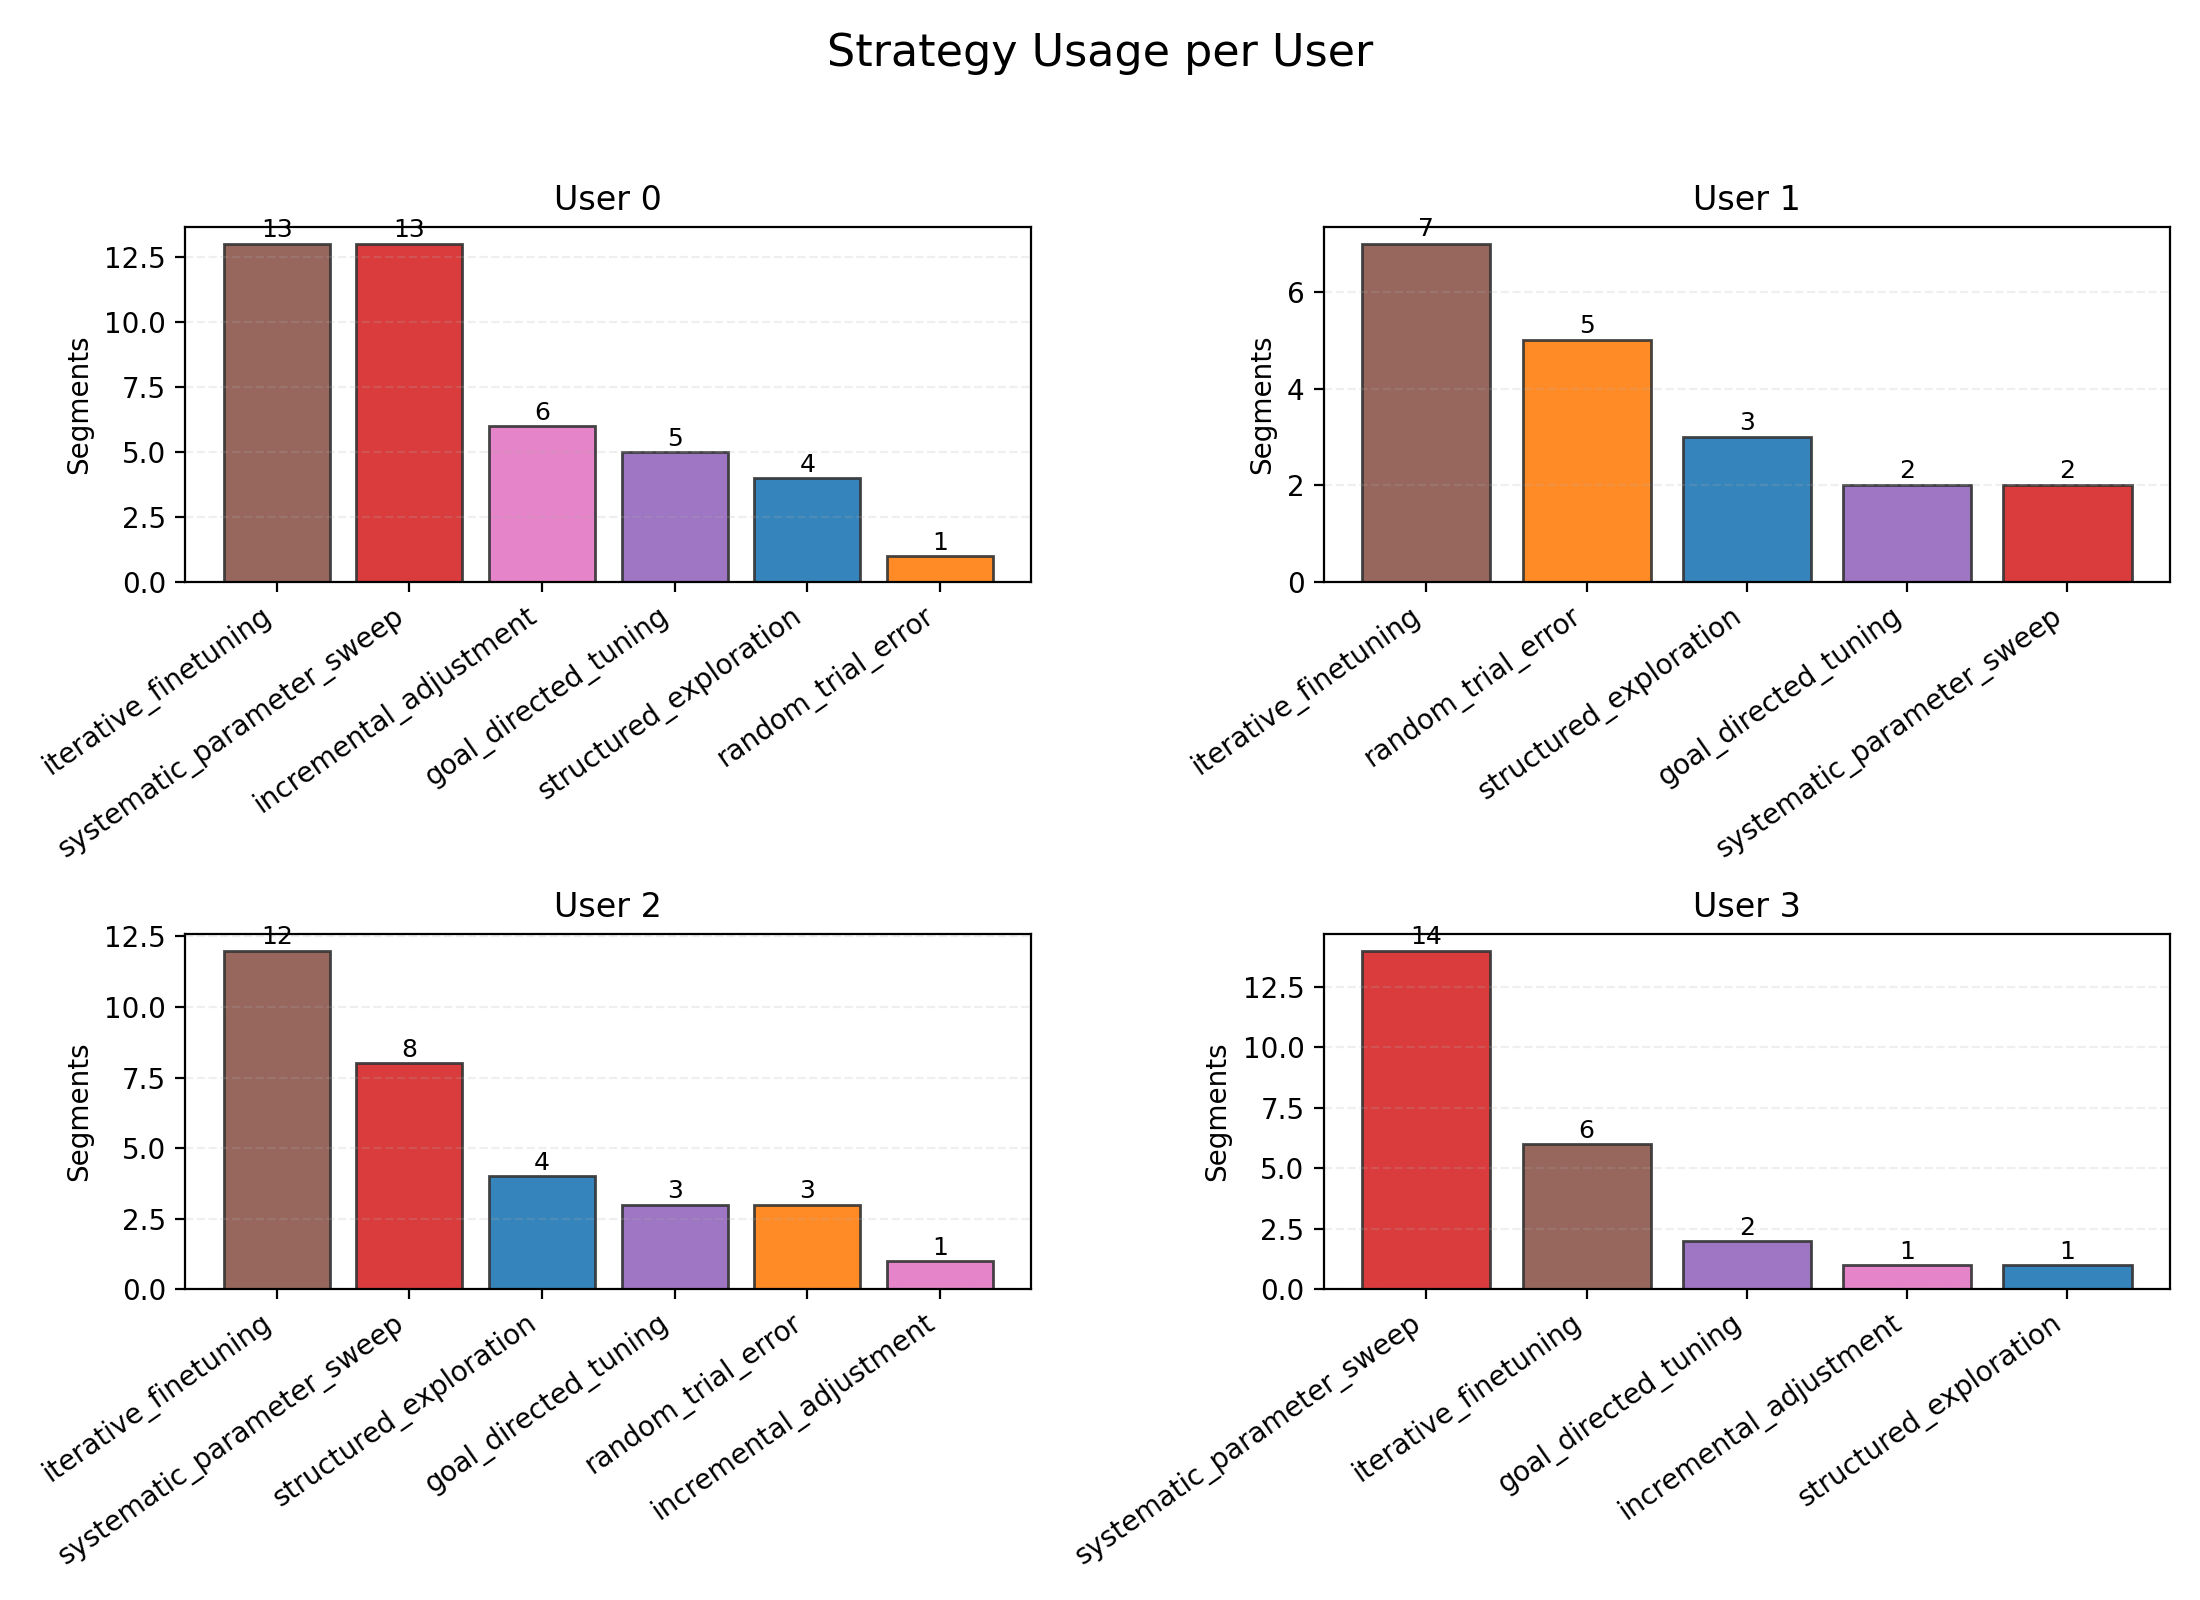
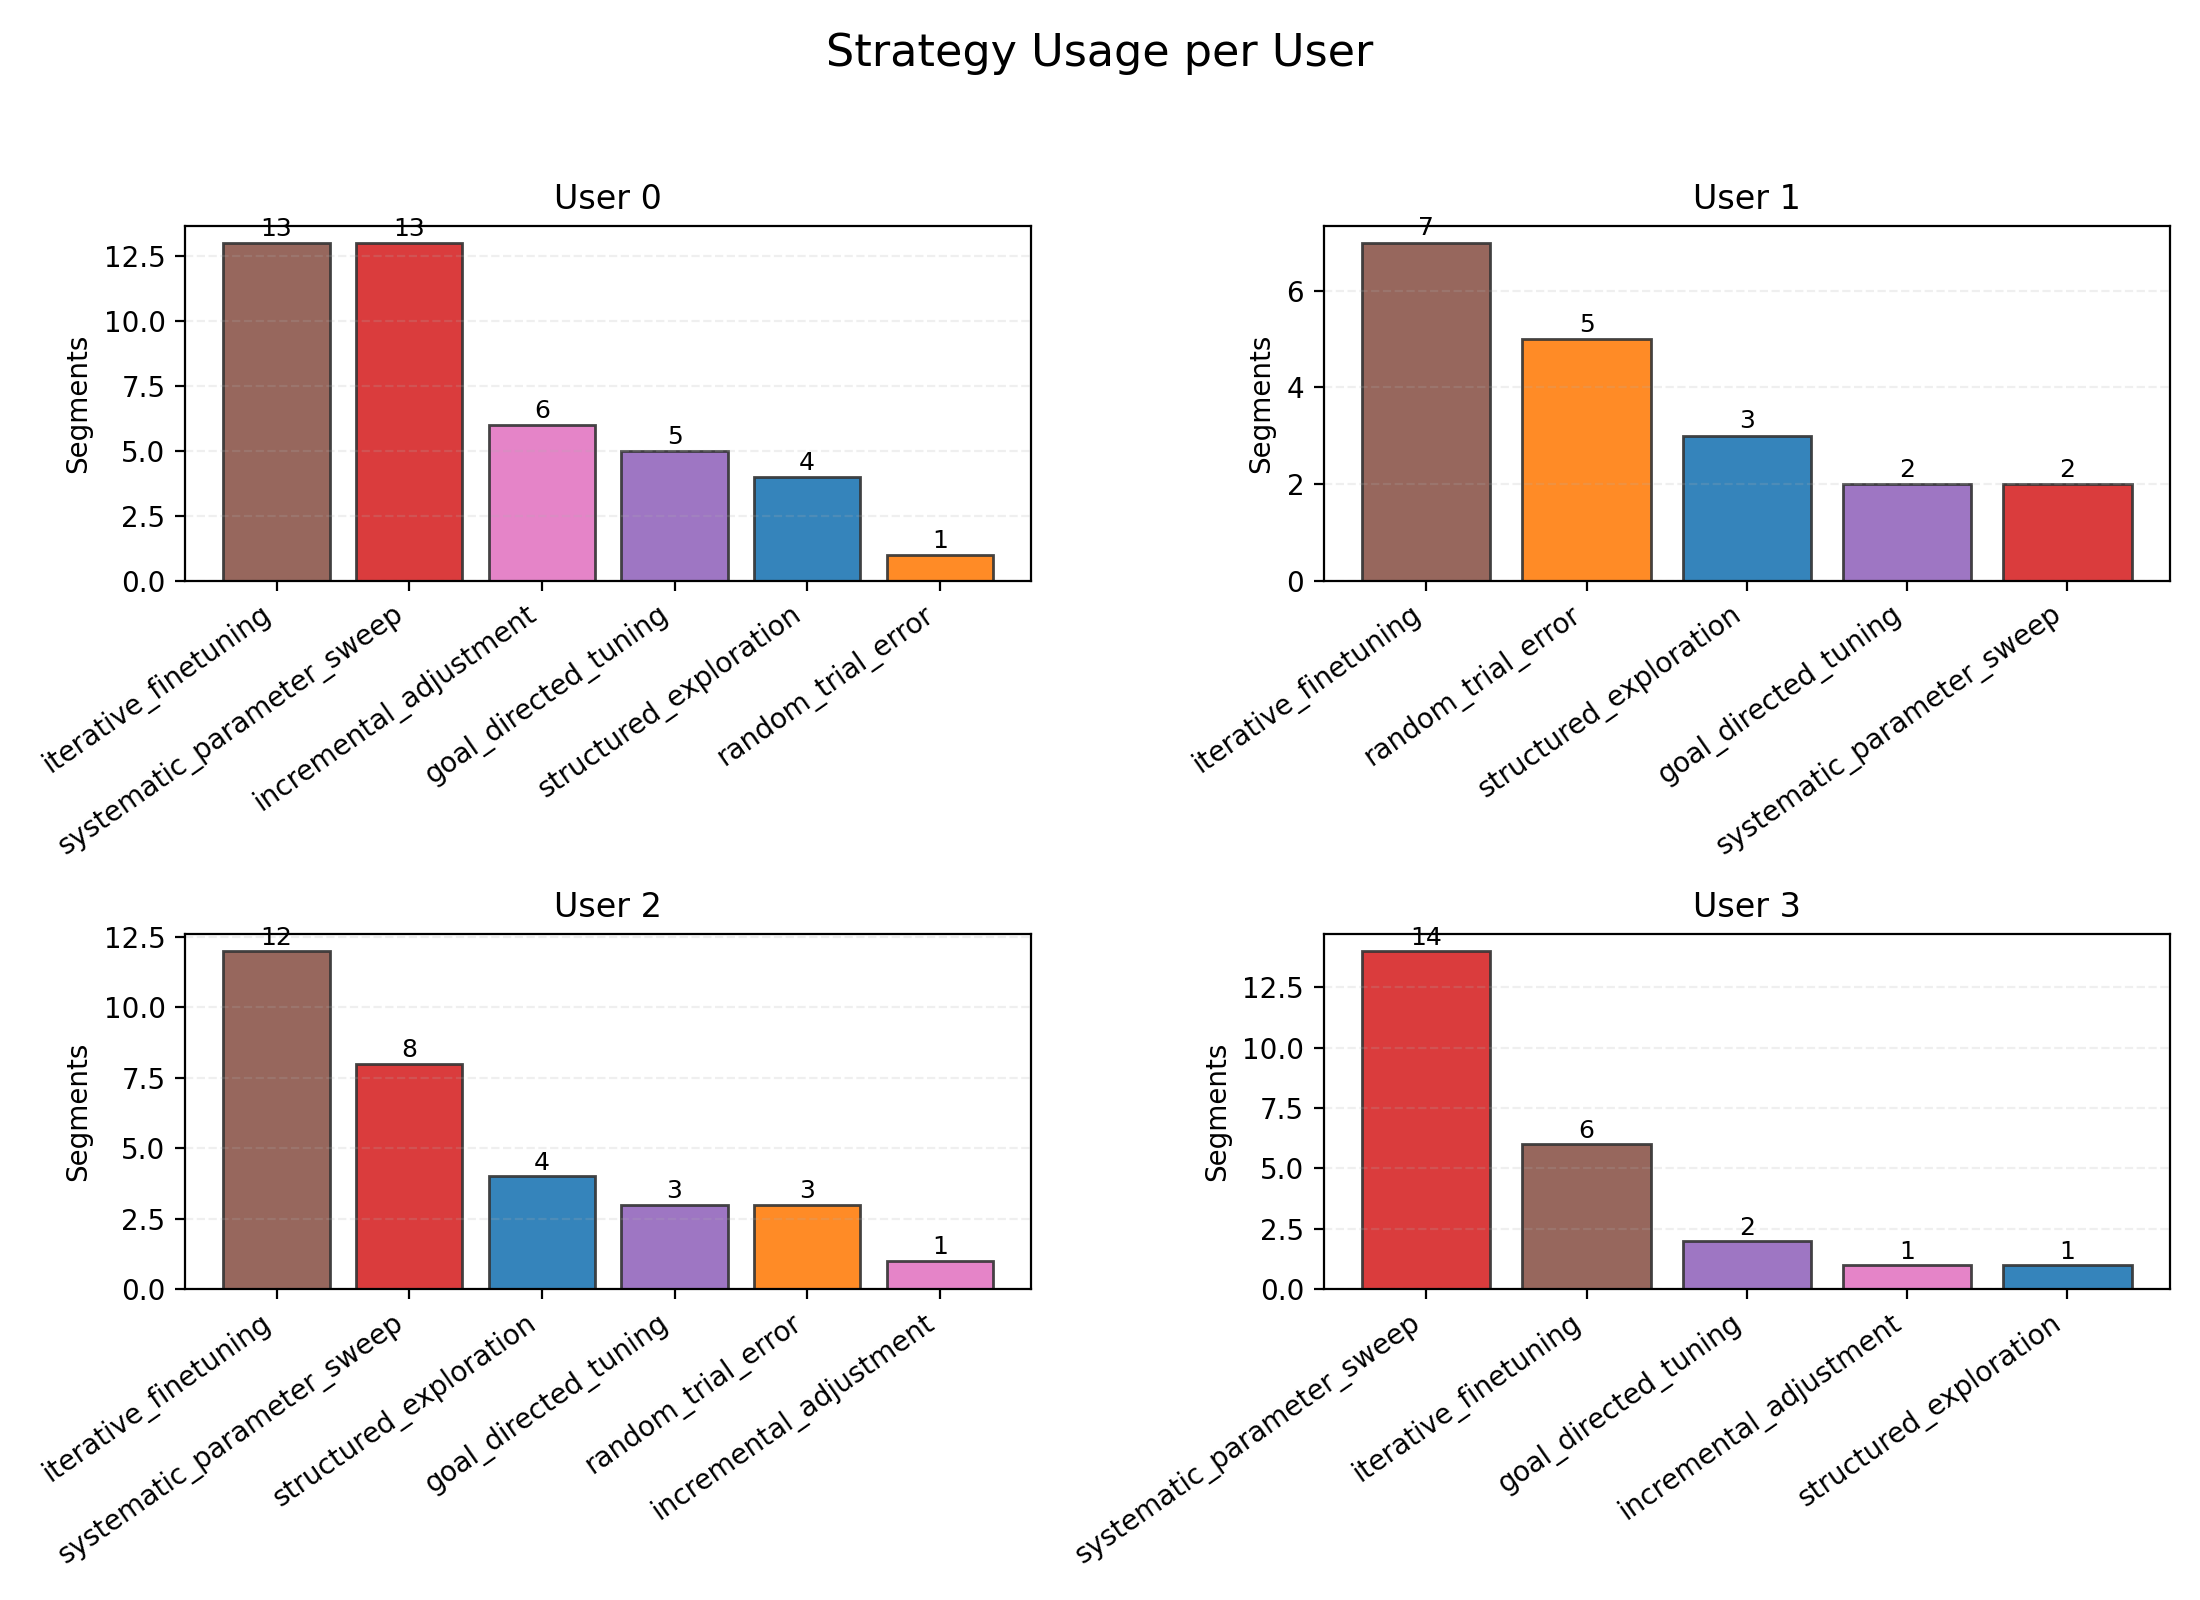
report

diff --git a/plot_strategy.py b/plot_strategy.py
@@ -13,14 +13,19 @@ import matplotlib.colors as mcolors
 from matplotlib.animation import FuncAnimation
 import numpy as np
 from pathlib import Path
-from matplotlib.widgets import Slider, Button
+from matplotlib.widgets import Slider, Button, RadioButtons
 import time
 import json
+import matplotlib.image as mpimg
 from log_parser import parse_session  # already used in your runner
 
 from strategy_classifier.constants import ALL_STRATEGIES
 
 import re
+
+DEFAULT_REPORT_CSV = "graphs/strategy_usage_summary.csv"
+DEFAULT_REPORT_FIGURE = "graphs/strategy_usage_report.png"
+DEFAULT_RADAR_FIGURE = "graphs/strategy_usage_radar.png"
 
 # --------------------------------------------------------------
 # Translations (EN / NL)
@@ -38,9 +43,10 @@ TRANSLATIONS = {
         'pause': '⏸ Pause',
         'time_slider': 'Time',
         'zoom_slider': 'Zoom',
-        'zoom_display': 'Zoom: {level:.1f}x',
-        # Strategy translations
-        'goal_directed_tuning': 'goal_directed_tuning',
+    'zoom_display': 'Zoom: {level:.1f}x',
+    'dashboard_button': 'Open Dashboard',
+    # Strategy translations
+    'goal_directed_tuning': 'goal_directed_tuning',
         'incremental_adjustment': 'incremental_adjustment',
         'iterative_finetuning': 'iterative_finetuning',
         'random_trial_error': 'random_trial_error',
@@ -59,7 +65,8 @@ TRANSLATIONS = {
         'pause': '⏸ Pauzeren',
         'time_slider': 'Tijd',
         'zoom_slider': 'Zoom',
-        'zoom_display': 'Zoom: {level:.1f}x',
+    'zoom_display': 'Zoom: {level:.1f}x',
+    'dashboard_button': 'Dashboard openen',
         # Strategy translations
         'goal_directed_tuning': 'doelgerichte_afstemming',
         'incremental_adjustment': 'incrementele_aanpassing',
@@ -553,6 +560,119 @@ def generate_strategy_usage_radar(
     )
     print(f"[INFO] Saved strategy usage radar chart to {figure_path}")
     return summary_df
+
+
+STRATEGY_ROLE_MAP = {
+    "goal_directed_tuning": "Leader",
+    "iterative_finetuning": "Leader",
+    "systematic_parameter_sweep": "Explorer",
+    "structured_exploration": "Explorer",
+    "random_trial_error": "Explorer",
+    "incremental_adjustment": "Follower",
+    "repetition_practice": "Follower",
+    "backtracking_recovery": "Support",
+    "inactivity_wait": "Observer",
+}
+
+ROLE_DESCRIPTIONS = {
+    "Leader": "Optimizes toward a clear goal and guides the team toward refined solutions.",
+    "Explorer": "Covers new parameter space broadly to discover possibilities.",
+    "Follower": "Builds on existing ideas with cautious adjustments and repetitions.",
+    "Support": "Keeps the team on track by undoing mistakes or recovering prior states.",
+    "Observer": "Pauses or monitors rather than acting, often waiting for others.",
+}
+
+
+def derive_player_roles(summary_df):
+    """Return list of {user_id, strategy, role, percent, count} records."""
+    roles = []
+    for user, group in summary_df.groupby("user_id"):
+        if group.empty:
+            continue
+        top = group.sort_values("percent", ascending=False).iloc[0]
+        strategy = top["strategy"]
+        role = STRATEGY_ROLE_MAP.get(strategy, "Explorer")
+        roles.append({
+            "user_id": user,
+            "strategy": strategy,
+            "role": role,
+            "percent": float(top["percent"]),
+            "count": int(top["count"]),
+        })
+    return roles
+
+
+def _display_image(ax, image_path, title):
+    ax.clear()
+    p = Path(image_path)
+    if not p.exists():
+        ax.text(0.5, 0.5, f"Image not found:\n{p}", ha="center", va="center", fontsize=12)
+        ax.axis("off")
+        return
+    img = mpimg.imread(p)
+    ax.imshow(img)
+    ax.set_title(title, fontsize=14)
+    ax.axis("off")
+
+
+def _display_insights(ax, roles):
+    ax.clear()
+    ax.axis("off")
+    if not roles:
+        ax.text(0.5, 0.5, "No player insights available.", ha="center", va="center", fontsize=12)
+        return
+    y = 0.95
+    ax.text(0.0, 0.98, "Player Roles & Insights", fontsize=14, fontweight="bold", transform=ax.transAxes)
+    for role_info in roles:
+        role = role_info["role"]
+        desc = ROLE_DESCRIPTIONS.get(role, "")
+        line = (
+            f"User {role_info['user_id']}: {role} "
+            f"(dominant: {role_info['strategy']} "
+            f"{role_info['percent'] * 100:.1f}% of segments)"
+        )
+        ax.text(0.0, y, line, fontsize=11, transform=ax.transAxes)
+        if desc:
+            ax.text(0.02, y - 0.05, desc, fontsize=9, color="dimgray", transform=ax.transAxes)
+            y -= 0.12
+        else:
+            y -= 0.08
+        if y < 0.05:
+            ax.text(0.0, y, "...", fontsize=12, transform=ax.transAxes)
+            break
+
+
+def show_strategy_dashboard(summary_df, bar_figure_path, radar_figure_path, show=True):
+    """
+    Display a second 'page' with menu controls to view bar chart, radar chart, or insights.
+    """
+    roles = derive_player_roles(summary_df)
+    fig = plt.figure(figsize=(12, 6))
+    fig.suptitle("Strategy Dashboard", fontsize=16)
+
+    menu_ax = plt.axes([0.02, 0.25, 0.15, 0.45])
+    menu_ax.set_title("Views", fontsize=11)
+    display_ax = plt.axes([0.25, 0.1, 0.7, 0.8])
+
+    options = ["Bar Chart", "Radar Chart", "Insights"]
+    radio = RadioButtons(menu_ax, options)
+
+    def update_display(label):
+        if label == "Bar Chart":
+            _display_image(display_ax, bar_figure_path, "Per-User Strategy Counts")
+        elif label == "Radar Chart":
+            _display_image(display_ax, radar_figure_path, "Strategy Usage Radar")
+        else:
+            _display_insights(display_ax, roles)
+        fig.canvas.draw_idle()
+
+    radio.on_clicked(update_display)
+    update_display(options[0])
+
+    if show:
+        plt.show()
+    else:
+        plt.close(fig)
 
 
 # --------------------------------------------------------------
@@ -1056,6 +1176,31 @@ def plot_timeline():
     play_button.label.set_color('white')
     play_button.label.set_fontweight('bold')
     play_button.on_clicked(toggle_autoplay)
+
+    def open_dashboard(event):
+        summary_df_local = generate_strategy_usage_report(
+            df,
+            csv_path=DEFAULT_REPORT_CSV,
+            figure_path=DEFAULT_REPORT_FIGURE,
+            label_column=None,
+            min_actions=1,
+            show_plot=False,
+        )
+        generate_strategy_usage_radar(
+            df,
+            figure_path=DEFAULT_RADAR_FIGURE,
+            label_column=None,
+            min_actions=1,
+            value_col="percent",
+            show_plot=False,
+        )
+        show_strategy_dashboard(summary_df_local, DEFAULT_REPORT_FIGURE, DEFAULT_RADAR_FIGURE, show=True)
+
+    nav_button_ax = plt.axes([0.82, 0.94, 0.12, 0.035])
+    nav_button = Button(nav_button_ax, t('dashboard_button'), color='#0d9488', hovercolor='#14b8a6')
+    nav_button.label.set_color('white')
+    nav_button.label.set_fontweight('bold')
+    nav_button.on_clicked(open_dashboard)
     
     # ----------------------------------------------------------
     # LANGUAGE TOGGLE BUTTON (NS app style)
@@ -1257,6 +1402,10 @@ def main():
     parser.add_argument("--radar-value", choices=("percent", "count"), default="percent",
                         help="Metric plotted on the radar chart.")
     parser.add_argument("--show-radar", action="store_true", help="Display the radar chart interactively.")
+    parser.add_argument("--dashboard", action="store_true",
+                        help="Open a second page with menu-driven charts and player insights.")
+    parser.add_argument("--show-dashboard", action="store_true",
+                        help="Display the dashboard interactively when --dashboard is used.")
     parser.add_argument("--debug-snippet", action="store_true",
                         help="Run the legacy verbose debugging snippet after the main task.")
     parser.add_argument("--debug-log-dir", default="logs", help="Log directory used by the debug snippet.")
@@ -1269,11 +1418,12 @@ def main():
     current_language["lang"] = args.language
 
     df = None
-    if args.report or args.radar:
+    summary_df = None
+    if args.report or args.radar or args.dashboard:
         df = load_predictions()
 
-    if args.report:
-        generate_strategy_usage_report(
+    if args.report or args.dashboard:
+        summary_df = generate_strategy_usage_report(
             df,
             csv_path=args.report_csv,
             figure_path=args.report_figure,
@@ -1282,8 +1432,8 @@ def main():
             show_plot=args.show_report,
         )
 
-    if args.radar:
-        generate_strategy_usage_radar(
+    if args.radar or args.dashboard:
+        radar_summary = generate_strategy_usage_radar(
             df,
             figure_path=args.radar_figure,
             label_column=args.label_column,
@@ -1291,8 +1441,21 @@ def main():
             value_col=args.radar_value,
             show_plot=args.show_radar,
         )
+        if summary_df is None:
+            summary_df = radar_summary
 
-    if not args.report and not args.radar:
+    if args.dashboard:
+        if summary_df is None:
+            min_actions = min(args.report_min_actions, args.radar_min_actions)
+            summary_df_raw, used_label = summarize_strategy_usage(
+                df,
+                label_column=args.label_column,
+                min_actions=min_actions,
+            )
+            summary_df = summary_df_raw.rename(columns={used_label: "strategy"})
+        show_strategy_dashboard(summary_df, args.report_figure, args.radar_figure, show=args.show_dashboard)
+
+    if not args.report and not args.radar and not args.dashboard:
         plot_timeline()
 
     if args.debug_snippet:
